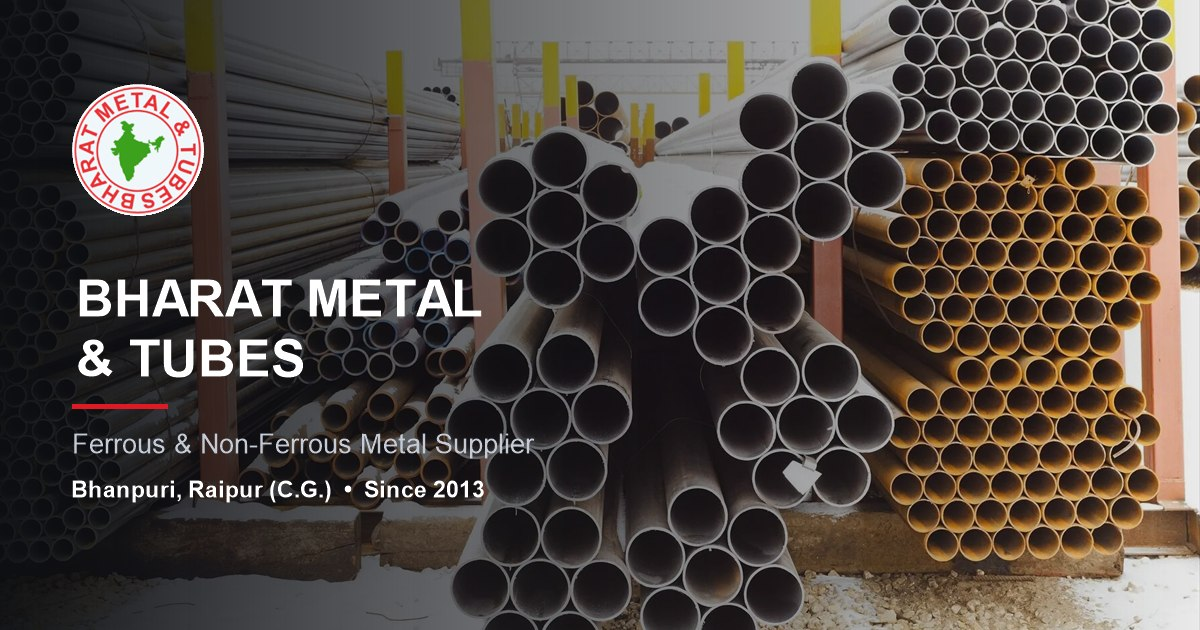
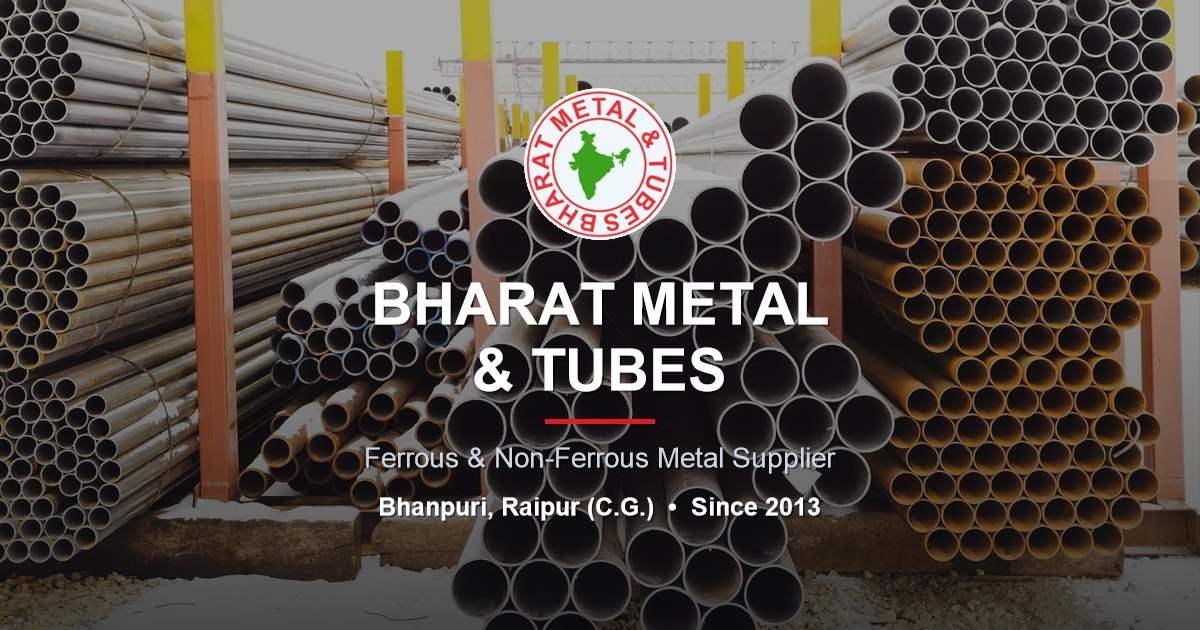
Recentre the link-preview image so it survives a square crop
WhatsApp renders the preview as a small square thumbnail, cropped from
the centre of the 1200x630 image. The previous layout put the logo and
name in the left third, so the thumbnail cut straight through the text
and showed a fragment of the wordmark.

- Centre the logo, name, tagline and location inside the middle 630px,
  which is exactly the region a square crop keeps
- Flat dark scrim plus a vertical gradient behind the text, and a drop
  shadow on each line, so it reads over any part of the photo
- Bump the og:image URL to ?v=2 so clients that already cached the old
  image fetch the new one

diff --git a/index.html b/index.html
@@ -15,14 +15,14 @@
 <meta property="og:url" content="https://bharatmetalandtubes.com/">
 <meta property="og:title" content="Bharat Metal &amp; Tubes | Ferrous &amp; Non-Ferrous Metal Supplier in Raipur">
 <meta property="og:description" content="Bharat Metal &amp; Tubes, Raipur (C.G.) — stockist &amp; supplier of stainless steel, carbon steel, mild steel pipes, tubes, sheets, plates, flanges, fittings, valves, IBR pipes, Hardox plates, copper, brass &amp; aluminium. Ferrous &amp; non-ferrous industrial raw material.">
-<meta property="og:image" content="https://bharatmetalandtubes.com/images/og-cover.jpg">
+<meta property="og:image" content="https://bharatmetalandtubes.com/images/og-cover.jpg?v=2">
 <meta property="og:image:width" content="1200">
 <meta property="og:image:height" content="630">
 <meta property="og:image:alt" content="Bharat Metal &amp; Tubes — ferrous and non-ferrous metal supplier, Bhanpuri, Raipur">
 <meta name="twitter:card" content="summary_large_image">
 <meta name="twitter:title" content="Bharat Metal &amp; Tubes | Ferrous &amp; Non-Ferrous Metal Supplier in Raipur">
 <meta name="twitter:description" content="Bharat Metal &amp; Tubes, Raipur (C.G.) — stockist &amp; supplier of stainless steel, carbon steel, mild steel pipes, tubes, sheets, plates, flanges, fittings, valves, IBR pipes, Hardox plates, copper, brass &amp; aluminium. Ferrous &amp; non-ferrous industrial raw material.">
-<meta name="twitter:image" content="https://bharatmetalandtubes.com/images/og-cover.jpg">
+<meta name="twitter:image" content="https://bharatmetalandtubes.com/images/og-cover.jpg?v=2">
 
 <!-- ============ STRUCTURED DATA (Google business info) ============ -->
 <script type="application/ld+json">
@@ -35,7 +35,7 @@
   "description": "Importers, stockist and suppliers of ferrous and non-ferrous metals in Raipur, Chhattisgarh — stainless steel, carbon steel and mild steel pipes, tubes, sheets, plates, coils, pipe fittings, flanges, IBR and boiler items, industrial valves, copper, brass and aluminium.",
   "url": "https://bharatmetalandtubes.com/",
   "logo": "https://bharatmetalandtubes.com/images/logo.png",
-  "image": "https://bharatmetalandtubes.com/images/og-cover.jpg",
+  "image": "https://bharatmetalandtubes.com/images/og-cover.jpg?v=2",
   "telephone": [
     "+91-93000-02940",
     "+91-90987-25624"

diff --git a/contact.html b/contact.html
@@ -14,14 +14,14 @@
 <meta property="og:url" content="https://bharatmetalandtubes.com/contact.html">
 <meta property="og:title" content="Contact Us | Bharat Metal &amp; Tubes — Raipur (C.G.)">
 <meta property="og:description" content="Contact Bharat Metal &amp; Tubes, Bhanpuri, Raipur (C.G.). Call +91 93000 02940 / 90987 25624 or email bharatmetal2013@gmail.com for stainless steel, carbon steel, pipes, fittings, flanges and valves enquiries.">
-<meta property="og:image" content="https://bharatmetalandtubes.com/images/og-cover.jpg">
+<meta property="og:image" content="https://bharatmetalandtubes.com/images/og-cover.jpg?v=2">
 <meta property="og:image:width" content="1200">
 <meta property="og:image:height" content="630">
 <meta property="og:image:alt" content="Bharat Metal &amp; Tubes — ferrous and non-ferrous metal supplier, Bhanpuri, Raipur">
 <meta name="twitter:card" content="summary_large_image">
 <meta name="twitter:title" content="Contact Us | Bharat Metal &amp; Tubes — Raipur (C.G.)">
 <meta name="twitter:description" content="Contact Bharat Metal &amp; Tubes, Bhanpuri, Raipur (C.G.). Call +91 93000 02940 / 90987 25624 or email bharatmetal2013@gmail.com for stainless steel, carbon steel, pipes, fittings, flanges and valves enquiries.">
-<meta name="twitter:image" content="https://bharatmetalandtubes.com/images/og-cover.jpg">
+<meta name="twitter:image" content="https://bharatmetalandtubes.com/images/og-cover.jpg?v=2">
 
 <!-- ============ STRUCTURED DATA (Google business info) ============ -->
 <script type="application/ld+json">
@@ -34,7 +34,7 @@
   "description": "Importers, stockist and suppliers of ferrous and non-ferrous metals in Raipur, Chhattisgarh — stainless steel, carbon steel and mild steel pipes, tubes, sheets, plates, coils, pipe fittings, flanges, IBR and boiler items, industrial valves, copper, brass and aluminium.",
   "url": "https://bharatmetalandtubes.com/",
   "logo": "https://bharatmetalandtubes.com/images/logo.png",
-  "image": "https://bharatmetalandtubes.com/images/og-cover.jpg",
+  "image": "https://bharatmetalandtubes.com/images/og-cover.jpg?v=2",
   "telephone": [
     "+91-93000-02940",
     "+91-90987-25624"

diff --git a/cs-ms-products.html b/cs-ms-products.html
@@ -15,14 +15,14 @@
 <meta property="og:url" content="https://bharatmetalandtubes.com/cs-ms-products.html">
 <meta property="og:title" content="Carbon &amp; Mild Steel | CS Seamless Pipe, MS Pipe, Plates &amp; Structural — Bharat Metal &amp; Tubes">
 <meta property="og:description" content="Carbon steel seamless pipes (A106 Gr B, API-5L), boiler tubes (BS 3059, SA 179), MS &amp; GI ERW pipes (IS 1239 / 3589), MS sheets, plates, angles, channels, beams and structural steel. Raipur, C.G.">
-<meta property="og:image" content="https://bharatmetalandtubes.com/images/og-cover.jpg">
+<meta property="og:image" content="https://bharatmetalandtubes.com/images/og-cover.jpg?v=2">
 <meta property="og:image:width" content="1200">
 <meta property="og:image:height" content="630">
 <meta property="og:image:alt" content="Bharat Metal &amp; Tubes — ferrous and non-ferrous metal supplier, Bhanpuri, Raipur">
 <meta name="twitter:card" content="summary_large_image">
 <meta name="twitter:title" content="Carbon &amp; Mild Steel | CS Seamless Pipe, MS Pipe, Plates &amp; Structural — Bharat Metal &amp; Tubes">
 <meta name="twitter:description" content="Carbon steel seamless pipes (A106 Gr B, API-5L), boiler tubes (BS 3059, SA 179), MS &amp; GI ERW pipes (IS 1239 / 3589), MS sheets, plates, angles, channels, beams and structural steel. Raipur, C.G.">
-<meta name="twitter:image" content="https://bharatmetalandtubes.com/images/og-cover.jpg">
+<meta name="twitter:image" content="https://bharatmetalandtubes.com/images/og-cover.jpg?v=2">
 <link rel="preconnect" href="https://fonts.googleapis.com">
 <link rel="preconnect" href="https://fonts.gstatic.com" crossorigin>
 <link href="https://fonts.googleapis.com/css2?family=Archivo:wght@600;700&family=Oswald:wght@400;500;600;700&family=Inter:wght@400;500;600;700&family=Roboto+Mono:wght@400;500;700&display=swap" rel="stylesheet">

diff --git a/products.html b/products.html
@@ -15,14 +15,14 @@
 <meta property="og:url" content="https://bharatmetalandtubes.com/products.html">
 <meta property="og:title" content="Products | Bharat Metal &amp; Tubes — Complete Ferrous &amp; Non-Ferrous Range">
 <meta property="og:description" content="Complete product range of Bharat Metal &amp; Tubes, Raipur — stainless steel, carbon steel, mild steel, pipe fittings, flanges, IBR items, industrial valves, sheets, plates, coils, Hardox plates and non-ferrous metals.">
-<meta property="og:image" content="https://bharatmetalandtubes.com/images/og-cover.jpg">
+<meta property="og:image" content="https://bharatmetalandtubes.com/images/og-cover.jpg?v=2">
 <meta property="og:image:width" content="1200">
 <meta property="og:image:height" content="630">
 <meta property="og:image:alt" content="Bharat Metal &amp; Tubes — ferrous and non-ferrous metal supplier, Bhanpuri, Raipur">
 <meta name="twitter:card" content="summary_large_image">
 <meta name="twitter:title" content="Products | Bharat Metal &amp; Tubes — Complete Ferrous &amp; Non-Ferrous Range">
 <meta name="twitter:description" content="Complete product range of Bharat Metal &amp; Tubes, Raipur — stainless steel, carbon steel, mild steel, pipe fittings, flanges, IBR items, industrial valves, sheets, plates, coils, Hardox plates and non-ferrous metals.">
-<meta name="twitter:image" content="https://bharatmetalandtubes.com/images/og-cover.jpg">
+<meta name="twitter:image" content="https://bharatmetalandtubes.com/images/og-cover.jpg?v=2">
 <link rel="preconnect" href="https://fonts.googleapis.com">
 <link rel="preconnect" href="https://fonts.gstatic.com" crossorigin>
 <link href="https://fonts.googleapis.com/css2?family=Archivo:wght@600;700&family=Oswald:wght@400;500;600;700&family=Inter:wght@400;500;600;700&family=Roboto+Mono:wght@400;500;700&display=swap" rel="stylesheet">

diff --git a/ss-products.html b/ss-products.html
@@ -15,14 +15,14 @@
 <meta property="og:url" content="https://bharatmetalandtubes.com/ss-products.html">
 <meta property="og:title" content="Stainless Steel Products | SS Pipe, Sheet, Bar &amp; Fittings — Bharat Metal &amp; Tubes">
 <meta property="og:description" content="Stainless steel pipes, tubes, sheets, plates, coils, round bars, hex bars, patta-patti, circles, fittings and flanges in SS 202, 304, 304L, 316, 316L, 310, 321, 410 and 904L grades. Raipur, Chhattisgarh.">
-<meta property="og:image" content="https://bharatmetalandtubes.com/images/og-cover.jpg">
+<meta property="og:image" content="https://bharatmetalandtubes.com/images/og-cover.jpg?v=2">
 <meta property="og:image:width" content="1200">
 <meta property="og:image:height" content="630">
 <meta property="og:image:alt" content="Bharat Metal &amp; Tubes — ferrous and non-ferrous metal supplier, Bhanpuri, Raipur">
 <meta name="twitter:card" content="summary_large_image">
 <meta name="twitter:title" content="Stainless Steel Products | SS Pipe, Sheet, Bar &amp; Fittings — Bharat Metal &amp; Tubes">
 <meta name="twitter:description" content="Stainless steel pipes, tubes, sheets, plates, coils, round bars, hex bars, patta-patti, circles, fittings and flanges in SS 202, 304, 304L, 316, 316L, 310, 321, 410 and 904L grades. Raipur, Chhattisgarh.">
-<meta name="twitter:image" content="https://bharatmetalandtubes.com/images/og-cover.jpg">
+<meta name="twitter:image" content="https://bharatmetalandtubes.com/images/og-cover.jpg?v=2">
 <link rel="preconnect" href="https://fonts.googleapis.com">
 <link rel="preconnect" href="https://fonts.gstatic.com" crossorigin>
 <link href="https://fonts.googleapis.com/css2?family=Archivo:wght@600;700&family=Oswald:wght@400;500;600;700&family=Inter:wght@400;500;600;700&family=Roboto+Mono:wght@400;500;700&display=swap" rel="stylesheet">

diff --git a/other-products.html b/other-products.html
@@ -15,14 +15,14 @@
 <meta property="og:url" content="https://bharatmetalandtubes.com/other-products.html">
 <meta property="og:title" content="Other Products | Dairy Fittings, Fasteners, PP/HDPE &amp; Conveyor Items — Bharat Metal &amp; Tubes">
 <meta property="og:description" content="Dairy and ferrule fittings, fasteners, nuts, bolts, washers, anchor fasteners, wire forms, PP and HDPE pipes, fittings and valves, plus conveyor items and roller idler pulleys. Raipur, C.G.">
-<meta property="og:image" content="https://bharatmetalandtubes.com/images/og-cover.jpg">
+<meta property="og:image" content="https://bharatmetalandtubes.com/images/og-cover.jpg?v=2">
 <meta property="og:image:width" content="1200">
 <meta property="og:image:height" content="630">
 <meta property="og:image:alt" content="Bharat Metal &amp; Tubes — ferrous and non-ferrous metal supplier, Bhanpuri, Raipur">
 <meta name="twitter:card" content="summary_large_image">
 <meta name="twitter:title" content="Other Products | Dairy Fittings, Fasteners, PP/HDPE &amp; Conveyor Items — Bharat Metal &amp; Tubes">
 <meta name="twitter:description" content="Dairy and ferrule fittings, fasteners, nuts, bolts, washers, anchor fasteners, wire forms, PP and HDPE pipes, fittings and valves, plus conveyor items and roller idler pulleys. Raipur, C.G.">
-<meta name="twitter:image" content="https://bharatmetalandtubes.com/images/og-cover.jpg">
+<meta name="twitter:image" content="https://bharatmetalandtubes.com/images/og-cover.jpg?v=2">
 <link rel="preconnect" href="https://fonts.googleapis.com">
 <link rel="preconnect" href="https://fonts.gstatic.com" crossorigin>
 <link href="https://fonts.googleapis.com/css2?family=Archivo:wght@600;700&family=Oswald:wght@400;500;600;700&family=Inter:wght@400;500;600;700&family=Roboto+Mono:wght@400;500;700&display=swap" rel="stylesheet">

diff --git a/specifications.html b/specifications.html
@@ -15,14 +15,14 @@
 <meta property="og:url" content="https://bharatmetalandtubes.com/specifications.html">
 <meta property="og:title" content="Specifications | Grades, Pipe Schedule, Flange Dimensions &amp; Weight Formulas">
 <meta property="og:description" content="Technical reference from Bharat Metal &amp; Tubes — stainless steel chemical composition, pipe schedule dimensions and weights, ANSI B16.5 flange dimensions, weight formulas and tensile strength conversion.">
-<meta property="og:image" content="https://bharatmetalandtubes.com/images/og-cover.jpg">
+<meta property="og:image" content="https://bharatmetalandtubes.com/images/og-cover.jpg?v=2">
 <meta property="og:image:width" content="1200">
 <meta property="og:image:height" content="630">
 <meta property="og:image:alt" content="Bharat Metal &amp; Tubes — ferrous and non-ferrous metal supplier, Bhanpuri, Raipur">
 <meta name="twitter:card" content="summary_large_image">
 <meta name="twitter:title" content="Specifications | Grades, Pipe Schedule, Flange Dimensions &amp; Weight Formulas">
 <meta name="twitter:description" content="Technical reference from Bharat Metal &amp; Tubes — stainless steel chemical composition, pipe schedule dimensions and weights, ANSI B16.5 flange dimensions, weight formulas and tensile strength conversion.">
-<meta name="twitter:image" content="https://bharatmetalandtubes.com/images/og-cover.jpg">
+<meta name="twitter:image" content="https://bharatmetalandtubes.com/images/og-cover.jpg?v=2">
 <link rel="preconnect" href="https://fonts.googleapis.com">
 <link rel="preconnect" href="https://fonts.gstatic.com" crossorigin>
 <link href="https://fonts.googleapis.com/css2?family=Archivo:wght@600;700&family=Oswald:wght@400;500;600;700&family=Inter:wght@400;500;600;700&family=Roboto+Mono:wght@400;500;700&display=swap" rel="stylesheet">

diff --git a/valves.html b/valves.html
@@ -15,14 +15,14 @@
 <meta property="og:url" content="https://bharatmetalandtubes.com/valves.html">
 <meta property="og:title" content="Industrial Valves | Ball, Gate, Globe, Check &amp; Butterfly — Bharat Metal &amp; Tubes">
 <meta property="og:description" content="Industrial valves supplier in Raipur — ball, gate, globe, check, needle, butterfly, diaphragm, safety relief, foot, flush bottom, pinch, pulp and plug valves in CI, CS, SS and polypropylene.">
-<meta property="og:image" content="https://bharatmetalandtubes.com/images/og-cover.jpg">
+<meta property="og:image" content="https://bharatmetalandtubes.com/images/og-cover.jpg?v=2">
 <meta property="og:image:width" content="1200">
 <meta property="og:image:height" content="630">
 <meta property="og:image:alt" content="Bharat Metal &amp; Tubes — ferrous and non-ferrous metal supplier, Bhanpuri, Raipur">
 <meta name="twitter:card" content="summary_large_image">
 <meta name="twitter:title" content="Industrial Valves | Ball, Gate, Globe, Check &amp; Butterfly — Bharat Metal &amp; Tubes">
 <meta name="twitter:description" content="Industrial valves supplier in Raipur — ball, gate, globe, check, needle, butterfly, diaphragm, safety relief, foot, flush bottom, pinch, pulp and plug valves in CI, CS, SS and polypropylene.">
-<meta name="twitter:image" content="https://bharatmetalandtubes.com/images/og-cover.jpg">
+<meta name="twitter:image" content="https://bharatmetalandtubes.com/images/og-cover.jpg?v=2">
 <link rel="preconnect" href="https://fonts.googleapis.com">
 <link rel="preconnect" href="https://fonts.gstatic.com" crossorigin>
 <link href="https://fonts.googleapis.com/css2?family=Archivo:wght@600;700&family=Oswald:wght@400;500;600;700&family=Inter:wght@400;500;600;700&family=Roboto+Mono:wght@400;500;700&display=swap" rel="stylesheet">

diff --git a/weight-calculator.html b/weight-calculator.html
@@ -15,14 +15,14 @@
 <meta property="og:url" content="https://bharatmetalandtubes.com/weight-calculator.html">
 <meta property="og:title" content="Metal Weight Calculator | SS, CS, Brass &amp; Aluminium — Bharat Metal &amp; Tubes">
 <meta property="og:description" content="Free online metal weight calculator for stainless steel, carbon steel, brass, copper and aluminium — pipes, tubes, round bars, square bars, hex bars, flat bars, sheets, plates and circles.">
-<meta property="og:image" content="https://bharatmetalandtubes.com/images/og-cover.jpg">
+<meta property="og:image" content="https://bharatmetalandtubes.com/images/og-cover.jpg?v=2">
 <meta property="og:image:width" content="1200">
 <meta property="og:image:height" content="630">
 <meta property="og:image:alt" content="Bharat Metal &amp; Tubes — ferrous and non-ferrous metal supplier, Bhanpuri, Raipur">
 <meta name="twitter:card" content="summary_large_image">
 <meta name="twitter:title" content="Metal Weight Calculator | SS, CS, Brass &amp; Aluminium — Bharat Metal &amp; Tubes">
 <meta name="twitter:description" content="Free online metal weight calculator for stainless steel, carbon steel, brass, copper and aluminium — pipes, tubes, round bars, square bars, hex bars, flat bars, sheets, plates and circles.">
-<meta name="twitter:image" content="https://bharatmetalandtubes.com/images/og-cover.jpg">
+<meta name="twitter:image" content="https://bharatmetalandtubes.com/images/og-cover.jpg?v=2">
 <link rel="preconnect" href="https://fonts.googleapis.com">
 <link rel="preconnect" href="https://fonts.gstatic.com" crossorigin>
 <link href="https://fonts.googleapis.com/css2?family=Archivo:wght@600;700&family=Oswald:wght@400;500;600;700&family=Inter:wght@400;500;600;700&family=Roboto+Mono:wght@400;500;700&display=swap" rel="stylesheet">

diff --git a/sheets-plates.html b/sheets-plates.html
@@ -15,14 +15,14 @@
 <meta property="og:url" content="https://bharatmetalandtubes.com/sheets-plates.html">
 <meta property="og:title" content="Sheets, Plates &amp; Coils | Hardox, BQ &amp; SS Plates — Bharat Metal &amp; Tubes">
 <meta property="og:description" content="SS and CS sheets, plates and coils plus Hardox 400/500/600, Jindal Hard, Sail Hard and BQ wear plates. Chequered, perforated, corrugated and profile sheets. Raipur, Chhattisgarh.">
-<meta property="og:image" content="https://bharatmetalandtubes.com/images/og-cover.jpg">
+<meta property="og:image" content="https://bharatmetalandtubes.com/images/og-cover.jpg?v=2">
 <meta property="og:image:width" content="1200">
 <meta property="og:image:height" content="630">
 <meta property="og:image:alt" content="Bharat Metal &amp; Tubes — ferrous and non-ferrous metal supplier, Bhanpuri, Raipur">
 <meta name="twitter:card" content="summary_large_image">
 <meta name="twitter:title" content="Sheets, Plates &amp; Coils | Hardox, BQ &amp; SS Plates — Bharat Metal &amp; Tubes">
 <meta name="twitter:description" content="SS and CS sheets, plates and coils plus Hardox 400/500/600, Jindal Hard, Sail Hard and BQ wear plates. Chequered, perforated, corrugated and profile sheets. Raipur, Chhattisgarh.">
-<meta name="twitter:image" content="https://bharatmetalandtubes.com/images/og-cover.jpg">
+<meta name="twitter:image" content="https://bharatmetalandtubes.com/images/og-cover.jpg?v=2">
 <link rel="preconnect" href="https://fonts.googleapis.com">
 <link rel="preconnect" href="https://fonts.gstatic.com" crossorigin>
 <link href="https://fonts.googleapis.com/css2?family=Archivo:wght@600;700&family=Oswald:wght@400;500;600;700&family=Inter:wght@400;500;600;700&family=Roboto+Mono:wght@400;500;700&display=swap" rel="stylesheet">

diff --git a/fittings-flanges.html b/fittings-flanges.html
@@ -15,14 +15,14 @@
 <meta property="og:url" content="https://bharatmetalandtubes.com/fittings-flanges.html">
 <meta property="og:title" content="Pipe Fittings, Flanges &amp; IBR Items | Bharat Metal &amp; Tubes — Raipur">
 <meta property="og:description" content="Butt weld, socket weld and screwed pipe fittings, slip-on, blind, weld-neck and socket weld flanges to ANSI B16.5, plus IBR approved pipes and fittings. SS A403/A182F and CS A234/A105.">
-<meta property="og:image" content="https://bharatmetalandtubes.com/images/og-cover.jpg">
+<meta property="og:image" content="https://bharatmetalandtubes.com/images/og-cover.jpg?v=2">
 <meta property="og:image:width" content="1200">
 <meta property="og:image:height" content="630">
 <meta property="og:image:alt" content="Bharat Metal &amp; Tubes — ferrous and non-ferrous metal supplier, Bhanpuri, Raipur">
 <meta name="twitter:card" content="summary_large_image">
 <meta name="twitter:title" content="Pipe Fittings, Flanges &amp; IBR Items | Bharat Metal &amp; Tubes — Raipur">
 <meta name="twitter:description" content="Butt weld, socket weld and screwed pipe fittings, slip-on, blind, weld-neck and socket weld flanges to ANSI B16.5, plus IBR approved pipes and fittings. SS A403/A182F and CS A234/A105.">
-<meta name="twitter:image" content="https://bharatmetalandtubes.com/images/og-cover.jpg">
+<meta name="twitter:image" content="https://bharatmetalandtubes.com/images/og-cover.jpg?v=2">
 <link rel="preconnect" href="https://fonts.googleapis.com">
 <link rel="preconnect" href="https://fonts.gstatic.com" crossorigin>
 <link href="https://fonts.googleapis.com/css2?family=Archivo:wght@600;700&family=Oswald:wght@400;500;600;700&family=Inter:wght@400;500;600;700&family=Roboto+Mono:wght@400;500;700&display=swap" rel="stylesheet">

diff --git a/about.html b/about.html
@@ -14,14 +14,14 @@
 <meta property="og:url" content="https://bharatmetalandtubes.com/about.html">
 <meta property="og:title" content="About Us | Bharat Metal &amp; Tubes — Raipur (C.G.)">
 <meta property="og:description" content="About Bharat Metal &amp; Tubes, Raipur (C.G.) — leading importers, stockist and suppliers of ferrous &amp; non-ferrous metals. Company profile, organisation setup, GST, MSME details and industries we serve.">
-<meta property="og:image" content="https://bharatmetalandtubes.com/images/og-cover.jpg">
+<meta property="og:image" content="https://bharatmetalandtubes.com/images/og-cover.jpg?v=2">
 <meta property="og:image:width" content="1200">
 <meta property="og:image:height" content="630">
 <meta property="og:image:alt" content="Bharat Metal &amp; Tubes — ferrous and non-ferrous metal supplier, Bhanpuri, Raipur">
 <meta name="twitter:card" content="summary_large_image">
 <meta name="twitter:title" content="About Us | Bharat Metal &amp; Tubes — Raipur (C.G.)">
 <meta name="twitter:description" content="About Bharat Metal &amp; Tubes, Raipur (C.G.) — leading importers, stockist and suppliers of ferrous &amp; non-ferrous metals. Company profile, organisation setup, GST, MSME details and industries we serve.">
-<meta name="twitter:image" content="https://bharatmetalandtubes.com/images/og-cover.jpg">
+<meta name="twitter:image" content="https://bharatmetalandtubes.com/images/og-cover.jpg?v=2">
 <link rel="preconnect" href="https://fonts.googleapis.com">
 <link rel="preconnect" href="https://fonts.gstatic.com" crossorigin>
 <link href="https://fonts.googleapis.com/css2?family=Archivo:wght@600;700&family=Oswald:wght@400;500;600;700&family=Inter:wght@400;500;600;700&family=Roboto+Mono:wght@400;500;700&display=swap" rel="stylesheet">
